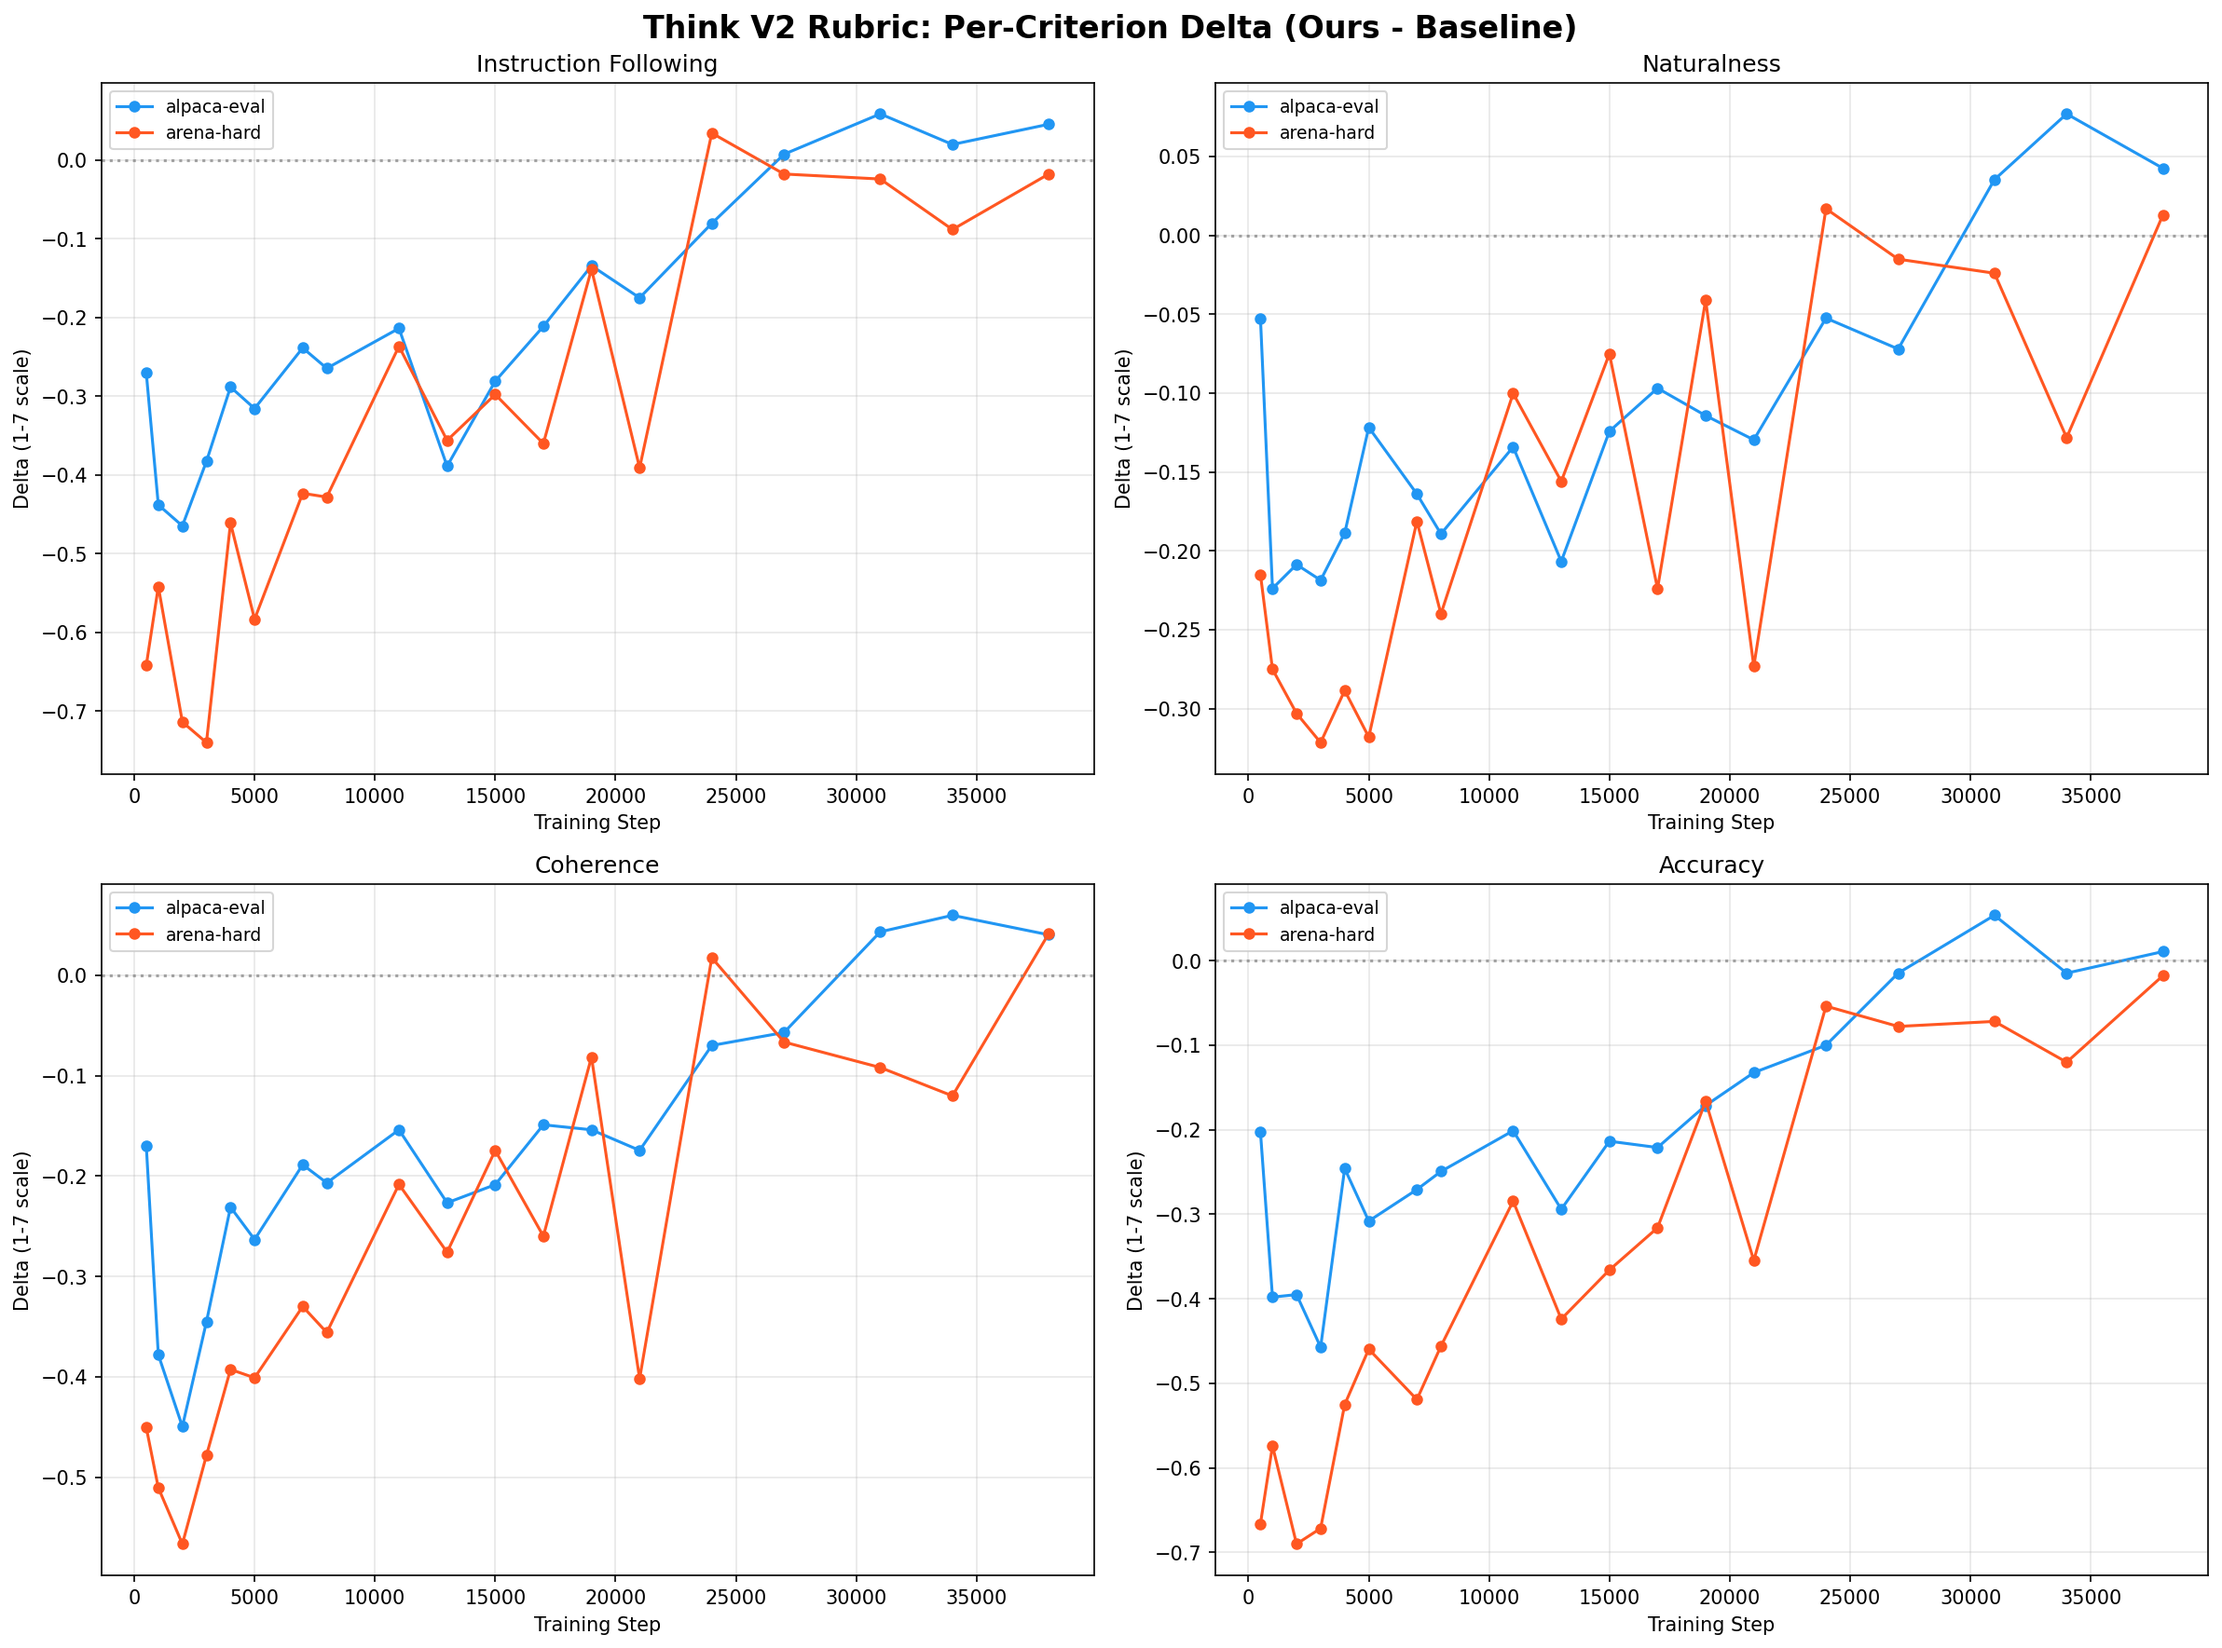
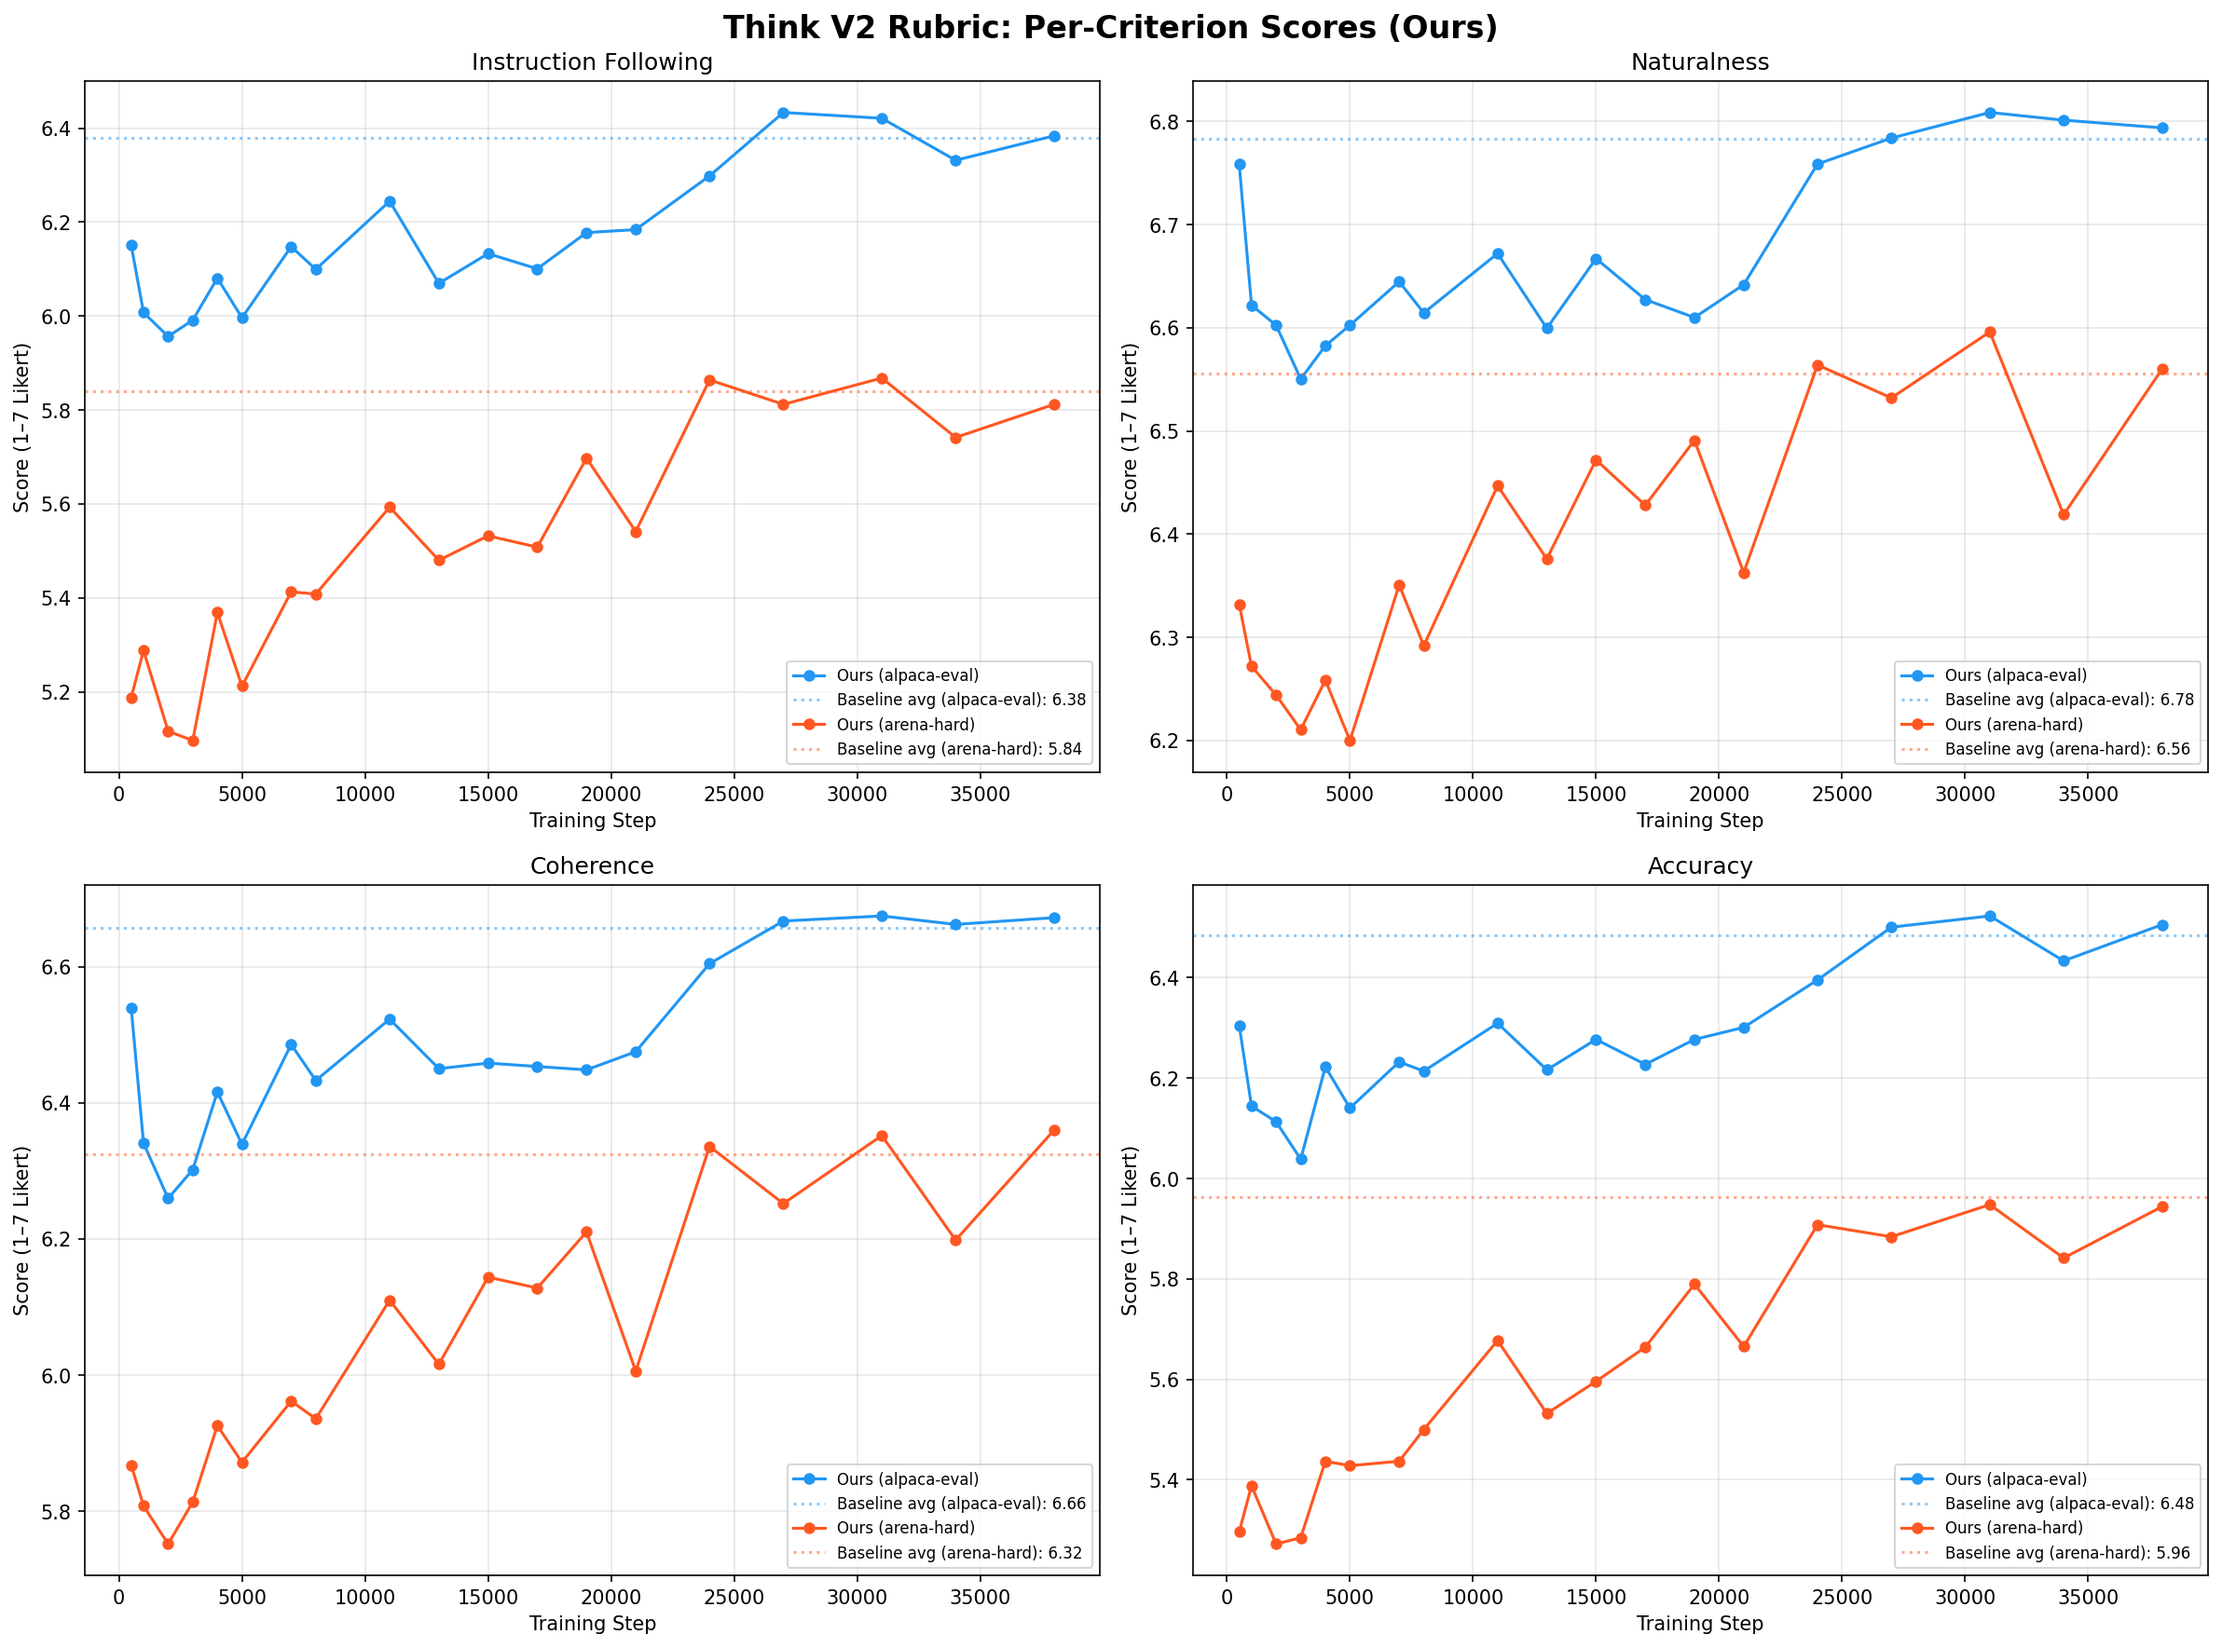
Update training curve plots and eval_results.md
- Show only swap_mode=both winrate in main panel (clearer signal)
- Replace rubric delta plot with per-criterion absolute scores
- Per-criterion plot now shows absolute scores with baseline reference lines
- Remove position bias assumptions from labels and text

diff --git a/oellm/evaluations/eval_results.md b/oellm/evaluations/eval_results.md
@@ -165,9 +165,9 @@ show_rubric(
 
 ![Training curve evaluation overview](figures/training_curve_eval.png)
 
-![Per-criterion rubric deltas](figures/rubric_criteria_eval.png)
+![Per-criterion rubric scores](figures/rubric_criteria_eval.png)
 
-### Winrate — both orderings (position-bias corrected)
+### Winrate (swap_mode=both)
 
 Our model win% vs baseline. 50% = parity. Both orderings (A-B and B-A) averaged.
 
@@ -193,9 +193,9 @@ Our model win% vs baseline. 50% = parity. Both orderings (A-B and B-A) averaged.
 | 34000 | 49.0% | 1610 battles | 51.4% | 1000 battles |
 | 38000 | 49.4% | 1610 battles | 48.5% | 1000 battles |
 
-### Winrate — fixed ordering
+### Winrate (swap_mode=fixed)
 
-Single ordering only (baseline=A, ours=B). Shows strong position bias (~35-40pp gap vs both-ordering results).
+Single ordering only (baseline=A, ours=B). ~35-40pp gap vs swap_mode=both results.
 
 | Step | alpaca-eval | | arena-hard | |
 |---:|---:|---:|---:|---:|
